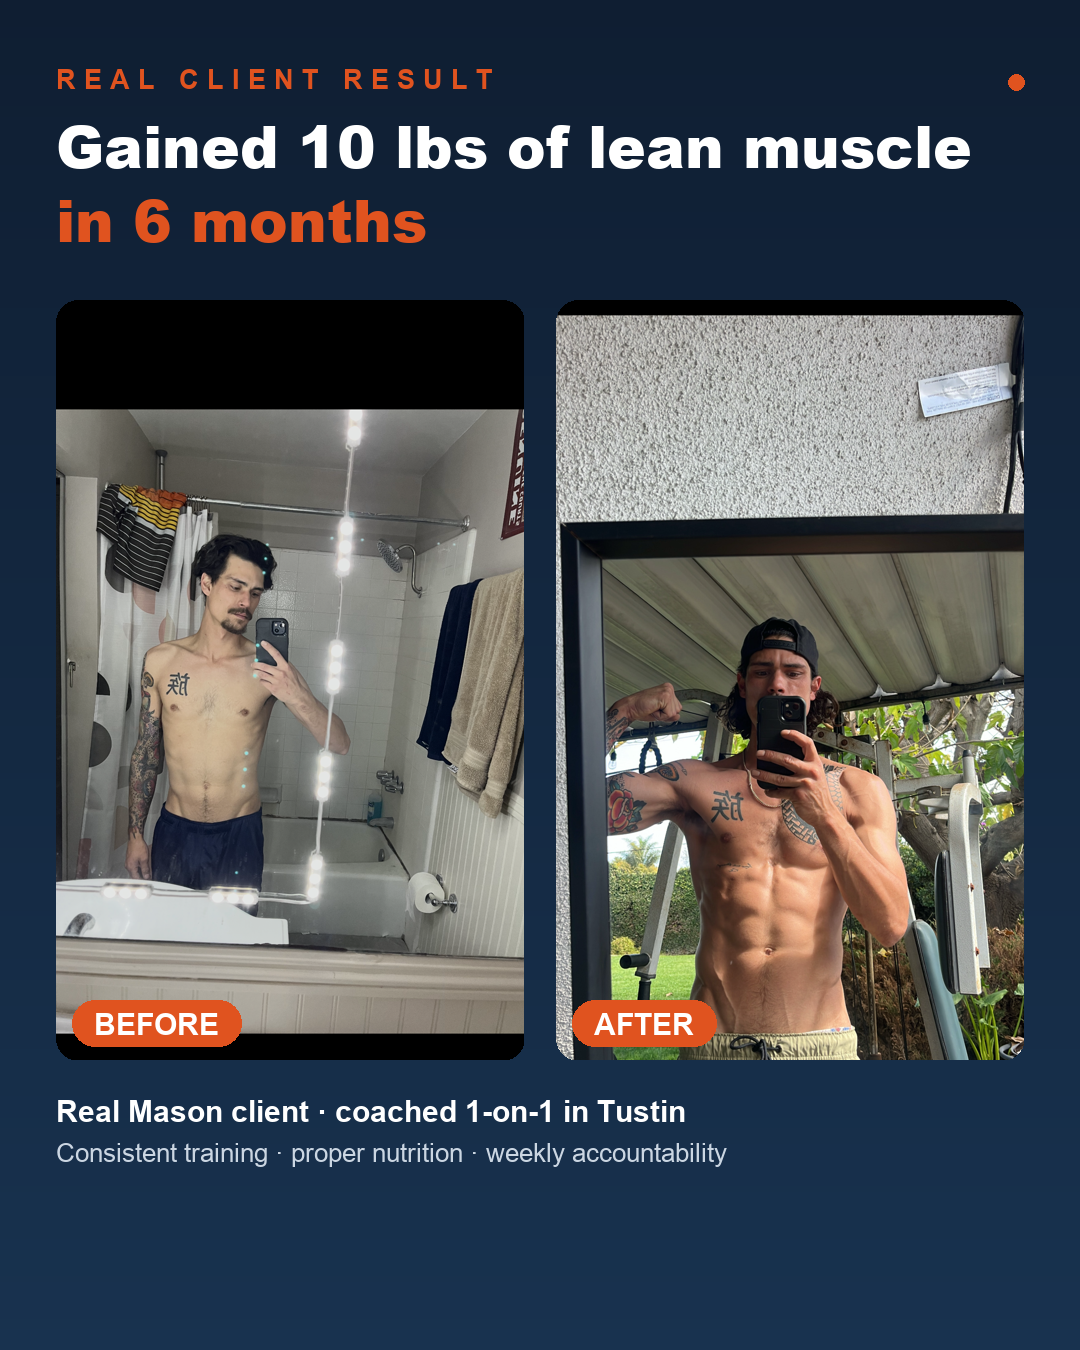
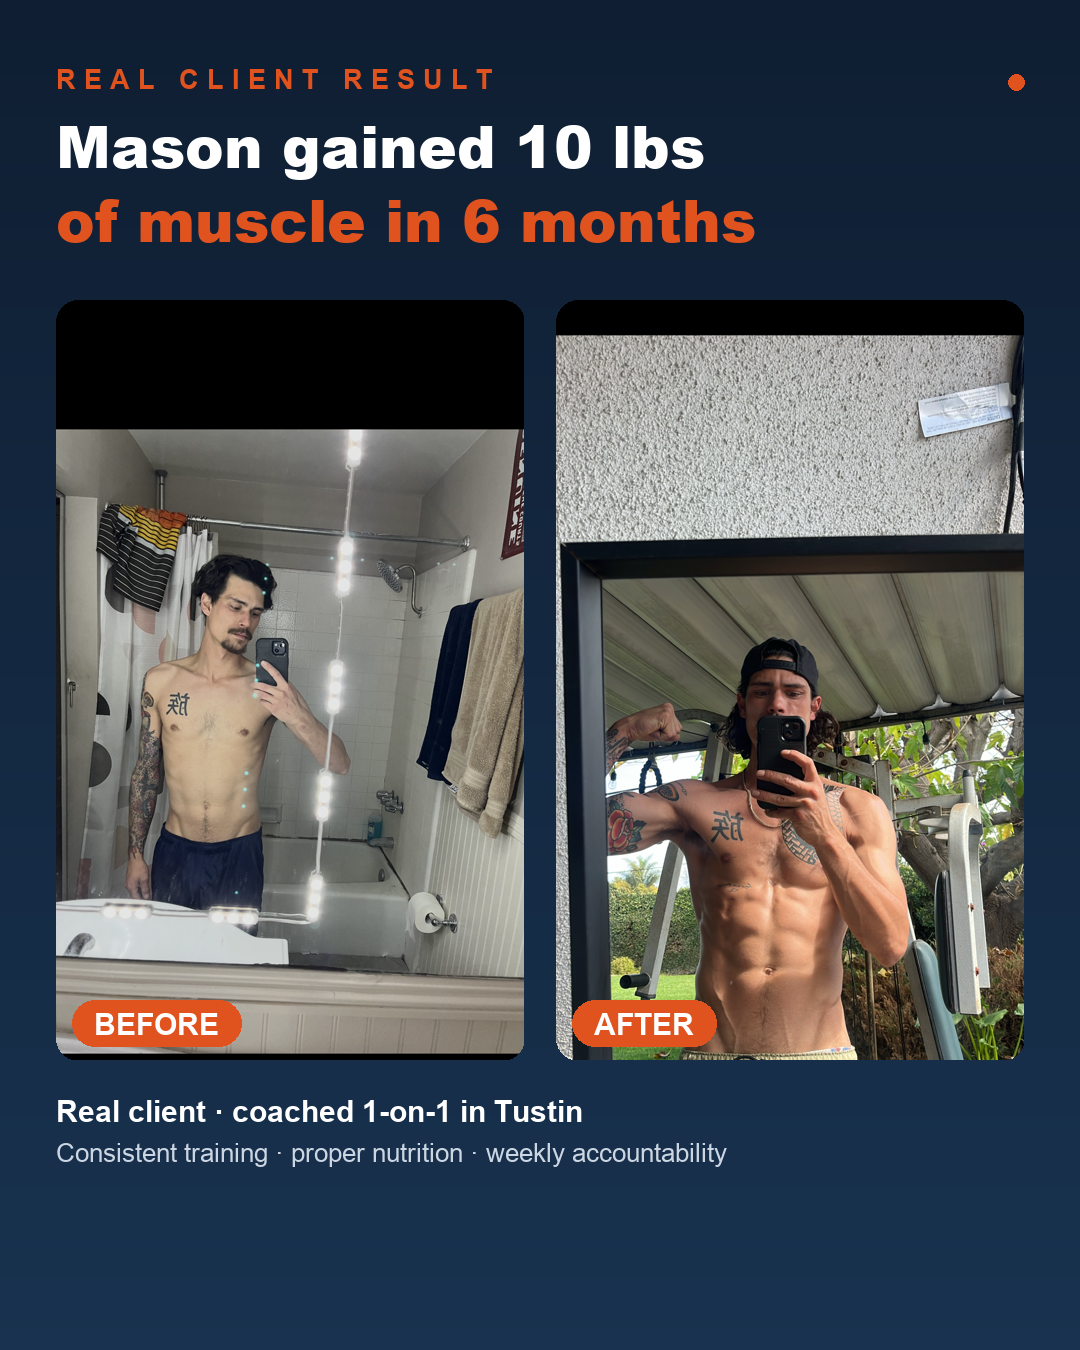
Fix Tristen face crop + name 3rd transformation (Mason) + competitor scarcity CTA copy
- Re-crop Tristen before/after to include his face
- 3rd transformation now names the client (Mason gained 10 lbs)
- Swap 'no hard sell' -> 'limited spots available, first come first served' (competitor wording)

Changed region(s): [[0.1222, 0.2178, 0.9472, 0.84], [0.0306, 0.28, 0.4889, 0.7778], [0.0611, 0.0933, 0.9167, 0.1867]]

diff --git a/index.html b/index.html
@@ -75,8 +75,9 @@
             </div>
 
             <p class="cta-note">
-              Free, no-pressure assessment. Just an honest look at where you're
-              stuck and whether Mason is the right coach to fix it.
+              Free assessment — limited spots available, first come, first
+              served. An honest look at where you've been stuck and whether
+              Mason is the right coach to fix it.
             </p>
 
             <div class="hero-proof" aria-label="Why this is different">
@@ -382,7 +383,8 @@
                 <li>An honest read on fit, expectations, and next steps.</li>
               </ul>
               <p class="assessment-note">
-                No obligation if it's not the right fit. The goal is clarity first.
+                Limited spots each month — first come, first served. You'll
+                leave with a clear plan either way.
               </p>
               <a
                 class="button button--primary"
@@ -567,7 +569,7 @@
         target="_blank"
         rel="noreferrer"
       >
-        Book a Free Assessment — no hard sell
+        Book a Free Assessment — limited spots available
       </a>
     </div>
 
